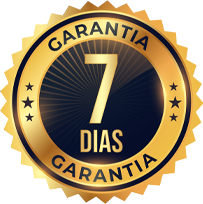
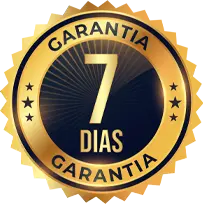
Add guarantee seal to card

diff --git a/styles.css b/styles.css
@@ -736,6 +736,13 @@ strong {
   line-height: 1.55;
 }
 
+.guarantee-seal {
+  width: 72px;
+  height: auto;
+  margin: 0 auto 18px;
+  filter: drop-shadow(0 0 18px rgb(246 199 91 / 0.28));
+}
+
 .tweet-text {
   margin-top: 10px;
   color: #0f1419;
@@ -1440,6 +1447,11 @@ footer {
   .tweet-text,
   .guarantee-card p {
     font-size: 1em;
+  }
+
+  .guarantee-seal {
+    width: 58px;
+    margin-bottom: 14px;
   }
 
   .tweet-meta {

diff --git a/index.html b/index.html
@@ -274,6 +274,7 @@
         <section class="copy-section guarantee-section">
           <div class="copy-inner">
             <article class="glass-card guarantee-card scroll-bottom">
+              <img class="guarantee-seal" src="assets/guarantee-seal.webp" alt="Garantia de 7 dias">
               <h2>Garantia incondicional de <strong>7 dias</strong></h2>
               <p>Se por qualquer motivo você não ficar satisfeito com a Imersão na Wing nos primeiros 7 dias após a compra, é só pedir o reembolso.</p>
               <p>Sem perguntas, sem burocracia, sem questionamento. 100% do seu dinheiro de volta.</p>